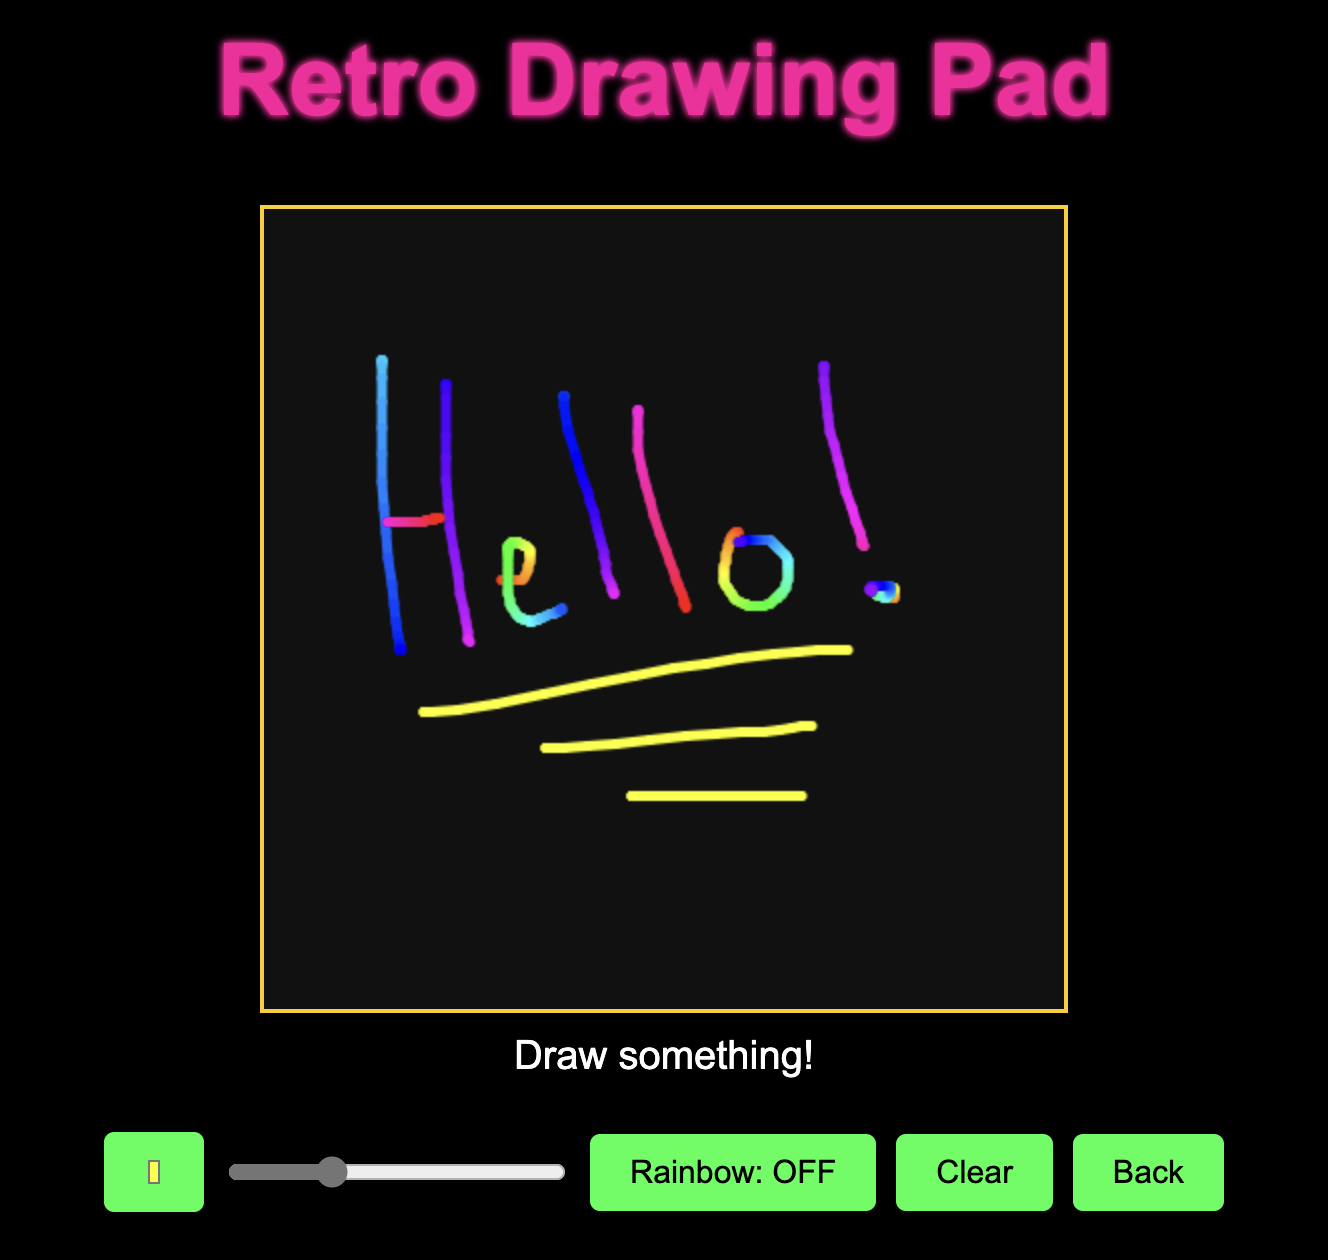
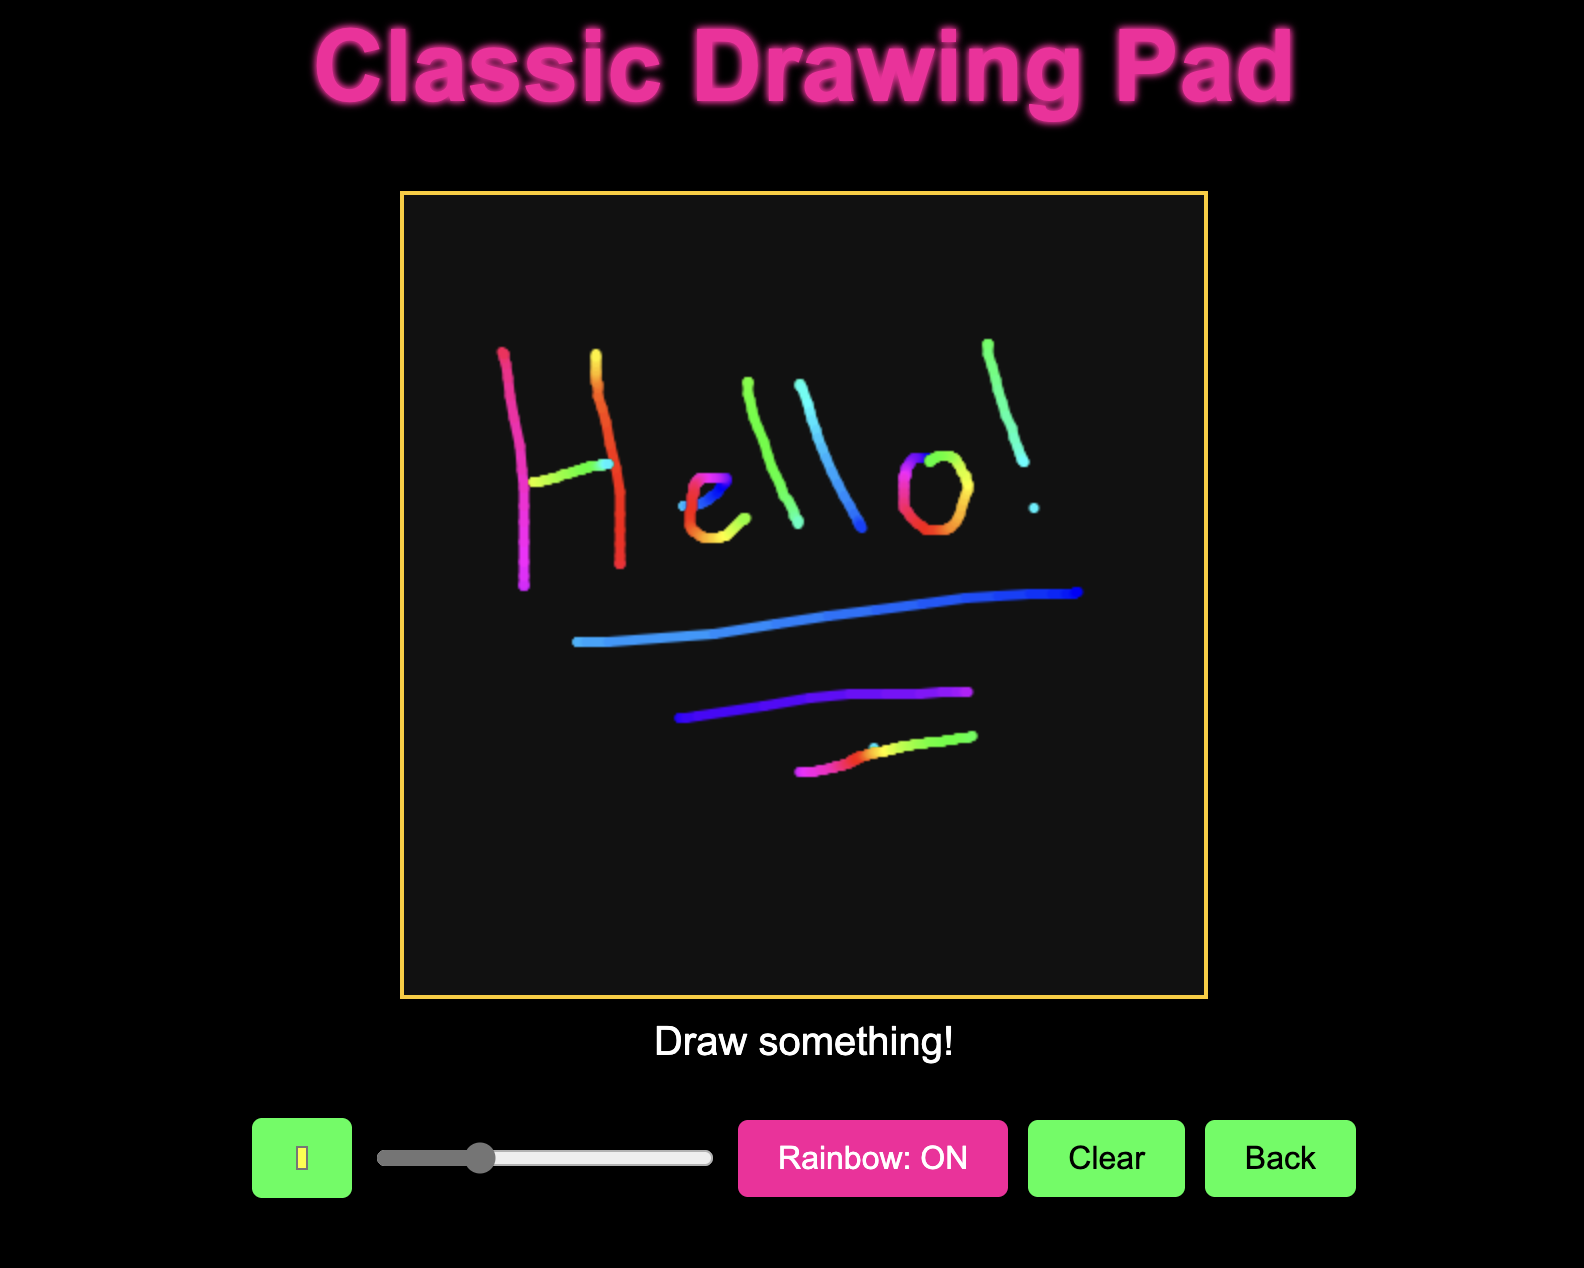
Updates

Changed region(s): [[0.2779, 0.2476, 0.6792, 0.65], [0.0617, 0.7738, 0.9262, 0.9595], [0.1544, 0.0, 0.8645, 0.1857]]

diff --git a/ponggame/script.js b/ponggame/script.js
@@ -1,0 +1,110 @@
+const canvas = document.getElementById("gameCanvas");
+const ctx = canvas.getContext("2d");
+const startBtn = document.getElementById("startBtn");
+
+let gameRunning = false;
+
+//setup for the paddle and ball
+const paddleHeight = 80;
+const paddleWidth = 10;
+const player = { x: 10, y: canvas.height / 2 - paddleHeight / 2, score: 0 };
+const ai = { x: canvas.width - paddleWidth - 10, y: canvas.height / 2 - paddleHeight / 2, score: 0 };
+const ball = { x: canvas.width / 2, y: canvas.height / 2, size: 10, speedX: 4, speedY: 4 };
+
+document.addEventListener("keydown", movePaddle);
+
+function movePaddle(e) {
+  if (e.key === "ArrowUp" && player.y > 0) player.y -= 30;
+  else if (e.key === "ArrowDown" && player.y < canvas.height - paddleHeight) player.y += 30;
+}
+
+function resetBall() {
+  ball.x = canvas.width / 2;
+  ball.y = canvas.height / 2;
+  ball.speedX = -ball.speedX;
+  ball.speedY = (Math.random() - 0.5) * 8;
+}
+
+function update() {
+  if (!gameRunning) return;
+
+  //ball moving
+  ball.x += ball.speedX;
+  ball.y += ball.speedY;
+
+ 
+  if (ball.y <= 0 || ball.y + ball.size >= canvas.height) {
+    ball.speedY *= -1;
+  }
+
+  //player paddle impact
+  if (
+    ball.x <= player.x + paddleWidth &&
+    ball.y + ball.size >= player.y &&
+    ball.y <= player.y + paddleHeight
+  ) {
+    ball.speedX *= -1;
+  }
+
+  //movement for ai
+  if (ai.y + paddleHeight / 2 < ball.y) ai.y += 4;
+  else ai.y -= 4;
+
+  //ai paddle impact
+  if (
+    ball.x + ball.size >= ai.x &&
+    ball.y + ball.size >= ai.y &&
+    ball.y <= ai.y + paddleHeight
+  ) {
+    ball.speedX *= -1;
+  }
+
+  //scoring
+  if (ball.x <= 0) {
+    ai.score++;
+    resetBall();
+  }
+  if (ball.x + ball.size >= canvas.width) {
+    player.score++;
+    resetBall();
+  }
+
+  draw();
+  requestAnimationFrame(update);
+}
+
+function draw() {
+  ctx.clearRect(0, 0, canvas.width, canvas.height);
+
+  //middle line
+  ctx.beginPath();
+  ctx.setLineDash([5, 5]);
+  ctx.moveTo(canvas.width / 2, 0);
+  ctx.lineTo(canvas.width / 2, canvas.height);
+  ctx.strokeStyle = "#ff009d";
+  ctx.stroke();
+  ctx.setLineDash([]);
+
+  //paddles and ball
+  ctx.fillStyle = "#00ff4c";
+  ctx.fillRect(player.x, player.y, paddleWidth, paddleHeight);
+  ctx.fillRect(ai.x, ai.y, paddleWidth, paddleHeight);
+  ctx.fillRect(ball.x, ball.y, ball.size, ball.size);
+
+  //score
+  ctx.font = "20px Arial";
+  ctx.fillStyle = "#ffcc00";
+  ctx.fillText(player.score, canvas.width / 2 - 50, 30);
+  ctx.fillText(ai.score, canvas.width / 2 + 30, 30);
+}
+
+
+startBtn.addEventListener("click", () => {
+  if (!gameRunning) {
+    gameRunning = true;
+    player.score = 0;
+    ai.score = 0;
+    resetBall();
+    update();
+  }
+});

diff --git a/tictactoegame/script.js b/tictactoegame/script.js
@@ -3,6 +3,7 @@ const ctx = canvas.getContext('2d');
 const startBtn = document.getElementById('startBtn');
 const messageDiv = document.getElementById('message');
 
+//setup for game
 let board = [
   ["", "", ""],
   ["", "", ""],
@@ -13,18 +14,20 @@ let gameActive = false;
 
 const size = canvas.width / 3; 
 
-
+//grid
 function drawBoard() {
   ctx.clearRect(0, 0, canvas.width, canvas.height);
   ctx.lineWidth = 3;
   for (let i = 1; i <= 2; i++) {
   
+    //vertical
     ctx.beginPath();
     ctx.moveTo(i * size, 0);
     ctx.lineTo(i * size, canvas.height);
     ctx.stroke();
 
 
+    //horizontal 
     ctx.beginPath();
     ctx.moveTo(0, i * size);
     ctx.lineTo(canvas.width, i * size);
@@ -32,7 +35,7 @@ function drawBoard() {
   }
 }
 
-
+//players move
 function drawMove(row, col, player) {
   const x = col * size + size / 2;
   const y = row * size + size / 2;
@@ -53,7 +56,7 @@ function drawMove(row, col, player) {
   }
 }
 
-
+//checking for the winner
 function checkWinner() {
   const lines = [
 
@@ -75,11 +78,13 @@ function checkWinner() {
       return board[a[0]][a[1]];
     }
   }
+
+  //this is for a tie
   if (board.flat().every(cell => cell)) return "Tie";
   return null;
 }
 
-
+//for mouse clicks
 canvas.addEventListener('click', (e) => {
   if (!gameActive) return;
 

diff --git a/snakegame/script.js b/snakegame/script.js
@@ -20,6 +20,7 @@ function startGame() {
   game = setInterval(draw, 100);
 }
 
+//random food pop up
 function randomFood() {
   return {
     x: Math.floor(Math.random() * (canvas.width / box)) * box,
@@ -27,6 +28,7 @@ function randomFood() {
   };
 }
 
+//changing directions for snake (up,down and side to side arrows)
 function changeDirection(e) {
   if (e.key === "ArrowLeft" && direction !== "RIGHT") direction = "LEFT";
   else if (e.key === "ArrowUp" && direction !== "DOWN") direction = "UP";
@@ -38,11 +40,11 @@ function draw() {
   ctx.fillStyle = "#111";
   ctx.fillRect(0, 0, canvas.width, canvas.height);
 
- 
+ //food
   ctx.fillStyle = "red";
   ctx.fillRect(food.x, food.y, box, box);
 
-
+ //snake
   for (let i = 0; i < snake.length; i++) {
     ctx.fillStyle = i === 0 ? "lime" : "green";
     ctx.fillRect(snake[i].x, snake[i].y, box, box);
@@ -57,7 +59,7 @@ function draw() {
   if (direction === "RIGHT") headX += box;
   if (direction === "DOWN") headY += box;
 
-  
+  //score
   if (headX === food.x && headY === food.y) {
     score++;
     scoreDisplay.textContent = "Score: " + score;

diff --git a/ponggame/style.css b/ponggame/style.css
@@ -1,0 +1,50 @@
+body {
+    display: flex;
+    flex-direction: column;
+    align-items: center;
+    justify-content: center;
+    height: 100vh;
+    background-color: #000;
+    color: #fff;
+    font-family: Arial, sans-serif;
+    margin: 0;
+  }
+  
+  h1 {
+    font-size: 50px;
+    color: #ff009d;
+    text-shadow: 0 0 3px #ff009d, 0 0 5px #ff009d;
+  }
+  
+  canvas {
+    border: 2px solid #ffcc00;
+    background: #111;
+  }
+  
+  #message {
+    margin-top: 10px;
+    font-size: 20px;
+  }
+  
+  #controls {
+    display: flex;
+    gap: 10px;
+    margin-top: 15px;
+  }
+  
+  button {
+    padding: 10px 20px;
+    font-size: 16px;
+    border: none;
+    border-radius: 5px;
+    cursor: pointer;
+    background-color: #00ff4c;
+    color: #000;
+    transition: background-color 0.2s, transform 0.2s;
+  }
+  
+  button:hover {
+    background-color: #ffcc00;
+    transform: scale(1.05);
+  }
+  

diff --git a/ponggame/index.html b/ponggame/index.html
@@ -1,0 +1,24 @@
+<!DOCTYPE html>
+<html lang="en">
+<head>
+  <meta charset="UTF-8">
+  <meta name="viewport" content="width=device-width, initial-scale=1.0">
+  <title>Pong Game</title>
+  <link rel="stylesheet" href="style.css">
+</head>
+<body>
+  <h1>Classic Pong</h1>
+
+  <canvas id="gameCanvas" width="600" height="400"></canvas>
+  <div id="message">Use up and down arrows to move the paddle</div>
+
+  <div id="controls">
+    <button id="startBtn">Start</button>
+    <button id="backBtn" onclick="goBack()">Back</button>
+  </div>
+
+  <script src="script.js"></script>
+  <script>
+    function goBack() {
+        window.location.href = "../index.html";
+    }

diff --git a/drawinggame/index.html b/drawinggame/index.html
@@ -3,11 +3,11 @@
 <head>
   <meta charset="UTF-8">
   <meta name="viewport" content="width=device-width, initial-scale=1.0">
-  <title>Retro Drawing Pad</title>
+  <title>Drawing Pad</title>
   <link rel="stylesheet" href="style.css">
 </head>
 <body>
-  <h1>Retro Drawing Pad</h1>
+  <h1>Classic Drawing Pad</h1>
 
   <canvas id="drawCanvas" width="400" height="400"></canvas>
   <div id="message">Draw something!</div>

diff --git a/game.html b/game.html
@@ -43,6 +43,11 @@
       <h3>Drawing Pad</h3>
     </div>
 
+    <div class="game-card" onclick="window.open('ponggame/index.html', '_blank')">
+      <img src="./pic/PongGame.png" alt="Pong Photo of game">
+      <h3>Pong</h3>
+    </div>
+
     <div class="game-card" onclick="alert('Coming Soon!')">
       <img src="" alt="">
       <h3>Coming Soon!</h3>
